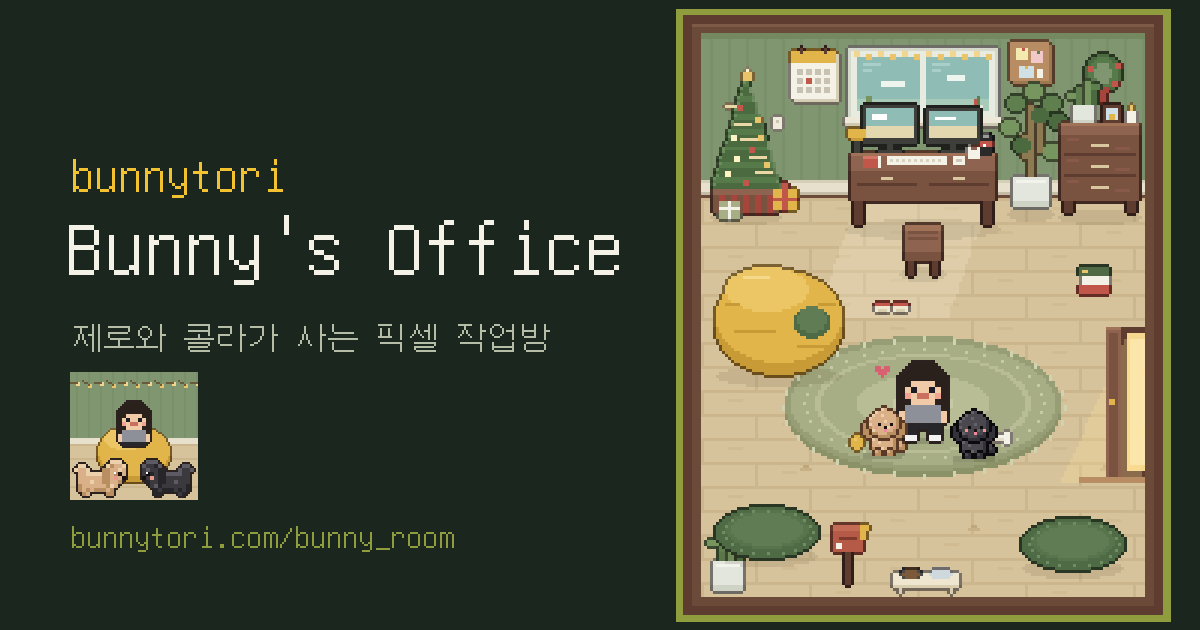
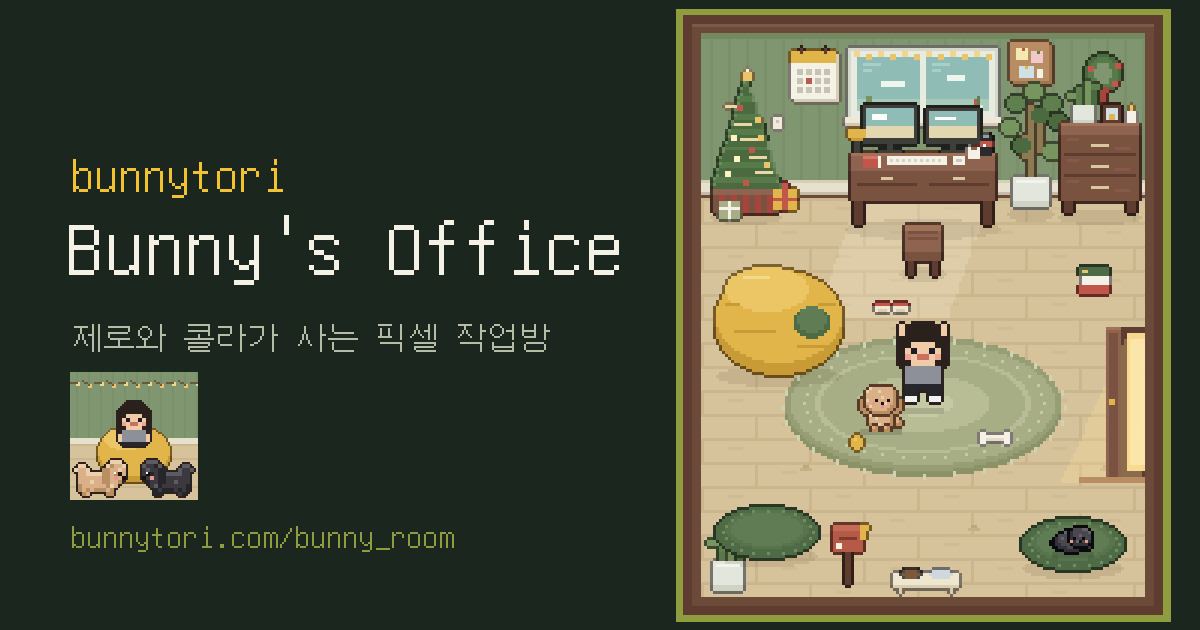
Dogs: flat rounded head top
Claude-Session: https://claude.ai/code/session_017jBMJu5sbdsGT4cjNbDcNS

Changed region(s): [[0.7092, 0.5127, 0.8325, 0.754], [0.8633, 0.8143, 0.925, 0.8746]]

diff --git a/bunny_room/index.html b/bunny_room/index.html
@@ -326,7 +326,7 @@ function person(c,ox,oy,L,pose,frame,k=1){
     if(L.pattern&&L.pattern[ch]&&((x+y)%2===0))col=L.pattern[ch];
     Rc(c,ox+x*k,oy+y*k,k,k,col);}});
 }
-const D_POSE={"sit": [".......oo.......", ".....oolhoo.....", "....olhhhhho....", "...olhhhhhhho...", "..olhhhhhhhhdo..", ".oohhhhhhhhhdoo.", "odohhhehhhehdodo", "ododhbhhnhhbdodo", "oddohhhhthhdoddo", "oddoddhhhdddoddo", ".oddooddddooddo.", "..oolhoooohdoo..", "...ohhhhhhhdoho.", "...ohhhhhhhdohdo", "...odoohhoododdo", "....ohdoohdoooo.", "....oddooddo...."], "walk1": ["................", ".......oo.......", ".....oolhoo.....", "....olhhhhho....", "...olhhhhhhho...", "..olhhhhhhhhdo..", ".oohhhhhhhhhdoo.", "odohhhehhhehdodo", "ododhbhhnhhbdodo", "oddohhhhthhdoddo", "oddoddhhhdddoddo", ".oddooddddooddo.", "..oohhoooohdooo.", "...ohoohhhhdohdo", "...oohdohoododdo", "....oddoohdoooo.", ".....ooooddo...."], "walk2": [".......oo.......", ".....oolhoo.....", "....olhhhhho....", "...olhhhhhhho...", "..olhhhhhhhhdo..", ".oohhhhhhhhhdoo.", "odohhhehhhehdodo", "ododhbhhnhhbdodo", "oddohhhhthhdoddo", "oddoddhhhdddoddo", ".oddooddddooddo.", "..oolhoooohdoo..", "...ohhhhhhhdoho.", "...ohhhhhoodohdo", "...odoohohdooddo", "....ohdooddoooo.", "....oddoooo....."], "sleep": ["................", "................", "................", "................", "................", "................", "................", "...ooooo........", "..olhhhhooo.....", ".olhhhhhdohoo...", ".ohhhhhhdohhho..", ".ohhehhedohhhdo.", ".odbhnhdbohhhdoo", ".oodddddohhhddoo", ".odooooohhdddoo.", "..oooodddddooo..", "......ooooo....."]};
+const D_POSE={"sit": ["................", "....oooooooo....", "...olhhhhhhho...", "..olhhhhhhhhdo..", "..ohhhhhhhhhdo..", ".oohhhhhhhhhdoo.", "odohhhehhhehdodo", "odohhbhhnhhbdodo", "ododhhhhthhddodo", "oddodhhhhhddoddo", ".oddoddddddoddo.", "..ooloooooodoo..", "...ohhhhhhhdoho.", "...ohhhhhhhdohdo", "...odoohhoododdo", "....ohdoohdoooo.", "....oddooddo...."], "walk1": ["................", "................", "....oooooooo....", "...olhhhhhhho...", "..olhhhhhhhhdo..", "..ohhhhhhhhhdo..", ".oohhhhhhhhhdoo.", "odohhhehhhehdodo", "odohhbhhnhhbdodo", "ododhhhhthhddodo", "oddodhhhhhddoddo", ".oddoddddddoddo.", "..oohoooooodooo.", "...ohoohhhhdohdo", "...oohdohoododdo", "....oddoohdoooo.", ".....ooooddo...."], "walk2": ["................", "....oooooooo....", "...olhhhhhhho...", "..olhhhhhhhhdo..", "..ohhhhhhhhhdo..", ".oohhhhhhhhhdoo.", "odohhhehhhehdodo", "odohhbhhnhhbdodo", "ododhhhhthhddodo", "oddodhhhhhddoddo", ".oddoddddddoddo.", "..ooloooooodoo..", "...ohhhhhhhdoho.", "...ohhhhhoodohdo", "...odoohohdooddo", "....ohdooddoooo.", "....oddoooo....."], "sleep": ["................", "................", "................", "................", "................", "................", "................", "...ooooo........", "..olhhhhooo.....", ".olhhhhhdohoo...", ".ohhhhhhdohhho..", ".ohhehhedohhhdo.", ".odbhnhdbohhhdoo", ".oodddddohhhddoo", ".odooooohhdddoo.", "..oooodddddooo..", "......ooooo....."]};
 function dog(c,ox,oy,L,pose,frame,flip,k=1){
   // front-facing sitting poodle (16x17), its own dark outline included
   const rows=pose==='sleep'?D_POSE.sleep:pose==='walk'?(frame===2?D_POSE.walk2:D_POSE.walk1):D_POSE.sit;

diff --git a/index.html b/index.html
@@ -326,7 +326,7 @@ function person(c,ox,oy,L,pose,frame,k=1){
     if(L.pattern&&L.pattern[ch]&&((x+y)%2===0))col=L.pattern[ch];
     Rc(c,ox+x*k,oy+y*k,k,k,col);}});
 }
-const D_POSE={"sit": [".......oo.......", ".....oolhoo.....", "....olhhhhho....", "...olhhhhhhho...", "..olhhhhhhhhdo..", ".oohhhhhhhhhdoo.", "odohhhehhhehdodo", "ododhbhhnhhbdodo", "oddohhhhthhdoddo", "oddoddhhhdddoddo", ".oddooddddooddo.", "..oolhoooohdoo..", "...ohhhhhhhdoho.", "...ohhhhhhhdohdo", "...odoohhoododdo", "....ohdoohdoooo.", "....oddooddo...."], "walk1": ["................", ".......oo.......", ".....oolhoo.....", "....olhhhhho....", "...olhhhhhhho...", "..olhhhhhhhhdo..", ".oohhhhhhhhhdoo.", "odohhhehhhehdodo", "ododhbhhnhhbdodo", "oddohhhhthhdoddo", "oddoddhhhdddoddo", ".oddooddddooddo.", "..oohhoooohdooo.", "...ohoohhhhdohdo", "...oohdohoododdo", "....oddoohdoooo.", ".....ooooddo...."], "walk2": [".......oo.......", ".....oolhoo.....", "....olhhhhho....", "...olhhhhhhho...", "..olhhhhhhhhdo..", ".oohhhhhhhhhdoo.", "odohhhehhhehdodo", "ododhbhhnhhbdodo", "oddohhhhthhdoddo", "oddoddhhhdddoddo", ".oddooddddooddo.", "..oolhoooohdoo..", "...ohhhhhhhdoho.", "...ohhhhhoodohdo", "...odoohohdooddo", "....ohdooddoooo.", "....oddoooo....."], "sleep": ["................", "................", "................", "................", "................", "................", "................", "...ooooo........", "..olhhhhooo.....", ".olhhhhhdohoo...", ".ohhhhhhdohhho..", ".ohhehhedohhhdo.", ".odbhnhdbohhhdoo", ".oodddddohhhddoo", ".odooooohhdddoo.", "..oooodddddooo..", "......ooooo....."]};
+const D_POSE={"sit": ["................", "....oooooooo....", "...olhhhhhhho...", "..olhhhhhhhhdo..", "..ohhhhhhhhhdo..", ".oohhhhhhhhhdoo.", "odohhhehhhehdodo", "odohhbhhnhhbdodo", "ododhhhhthhddodo", "oddodhhhhhddoddo", ".oddoddddddoddo.", "..ooloooooodoo..", "...ohhhhhhhdoho.", "...ohhhhhhhdohdo", "...odoohhoododdo", "....ohdoohdoooo.", "....oddooddo...."], "walk1": ["................", "................", "....oooooooo....", "...olhhhhhhho...", "..olhhhhhhhhdo..", "..ohhhhhhhhhdo..", ".oohhhhhhhhhdoo.", "odohhhehhhehdodo", "odohhbhhnhhbdodo", "ododhhhhthhddodo", "oddodhhhhhddoddo", ".oddoddddddoddo.", "..oohoooooodooo.", "...ohoohhhhdohdo", "...oohdohoododdo", "....oddoohdoooo.", ".....ooooddo...."], "walk2": ["................", "....oooooooo....", "...olhhhhhhho...", "..olhhhhhhhhdo..", "..ohhhhhhhhhdo..", ".oohhhhhhhhhdoo.", "odohhhehhhehdodo", "odohhbhhnhhbdodo", "ododhhhhthhddodo", "oddodhhhhhddoddo", ".oddoddddddoddo.", "..ooloooooodoo..", "...ohhhhhhhdoho.", "...ohhhhhoodohdo", "...odoohohdooddo", "....ohdooddoooo.", "....oddoooo....."], "sleep": ["................", "................", "................", "................", "................", "................", "................", "...ooooo........", "..olhhhhooo.....", ".olhhhhhdohoo...", ".ohhhhhhdohhho..", ".ohhehhedohhhdo.", ".odbhnhdbohhhdoo", ".oodddddohhhddoo", ".odooooohhdddoo.", "..oooodddddooo..", "......ooooo....."]};
 function dog(c,ox,oy,L,pose,frame,flip,k=1){
   // front-facing sitting poodle (16x17), its own dark outline included
   const rows=pose==='sleep'?D_POSE.sleep:pose==='walk'?(frame===2?D_POSE.walk2:D_POSE.walk1):D_POSE.sit;
